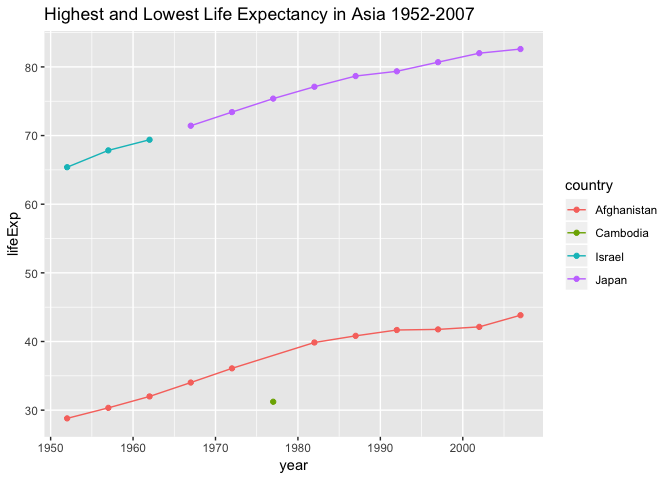
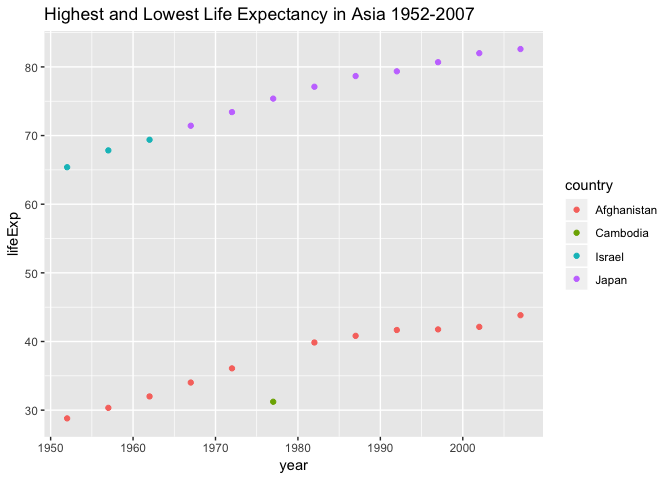
Edited

diff --git a/hw04_cou.md b/hw04_cou.md
@@ -3,6 +3,23 @@ hw04\_couBC
 CouBC
 2018-10-07
 
+-   [Task 1 - Data Re-Shaping](#task-1---data-re-shaping)
+    -   [I use the same specified tibble](#i-use-the-same-specified-tibble)
+    -   [This plot shows the highest and lowest life expectancy Asian countries between 1952-2007](#this-plot-shows-the-highest-and-lowest-life-expectancy-asian-countries-between-1952-2007)
+-   [Task 2:](#task-2)
+    -   [left\_join(places\_visited, airports)](#left_joinplaces_visited-airports)
+    -   [left\_join(airports, places\_visited)](#left_joinairports-places_visited)
+    -   [right\_join(places\_visited, airports)](#right_joinplaces_visited-airports)
+    -   [right\_join(airports, places\_visited)](#right_joinairports-places_visited)
+    -   [inner\_join(places\_visited, airports)](#inner_joinplaces_visited-airports)
+    -   [inner\_join(airports, places\_visited)](#inner_joinairports-places_visited)
+    -   [semi\_join(places\_visited, airports)](#semi_joinplaces_visited-airports)
+    -   [semi\_join(airports, places\_visited)](#semi_joinairports-places_visited)
+    -   [full\_join(places\_visited, airports)](#full_joinplaces_visited-airports)
+    -   [full\_join(airports, places\_visited)](#full_joinairports-places_visited)
+    -   [anti\_join(places\_visited, airports)](#anti_joinplaces_visited-airports)
+    -   [anti\_join(airports, places\_visited)](#anti_joinairports-places_visited)
+
 Task 1 - Data Re-Shaping
 ========================
 
@@ -89,7 +106,6 @@ This plot shows the highest and lowest life expectancy Asian countries between 1
 Asia_lifeExp %>% 
   ggplot(aes(x = year, y = lifeExp, color = country)) +
   geom_point() +
-  geom_line() +
   ggtitle("Highest and Lowest Life Expectancy in Asia 1952-2007")
 ```
 
@@ -159,15 +175,11 @@ left\_join(places\_visited, airports)
 With left join places\_visited then airports, I am missing Schiphol airport (Netherlands) from the airports table. This left\_join is matched by 'country'.
 
 ``` r
-lj_pa <- left_join(places_visited, airports) %>% 
+left_join(places_visited, airports) %>% 
   knitr::kable()
 ```
 
     ## Joining, by = "country"
-
-``` r
-lj_pa
-```
 
 | city        | country              | beach | airports          |  airport\_quality|
 |:------------|:---------------------|:------|:------------------|-----------------:|
@@ -184,15 +196,11 @@ left\_join(airports, places\_visited)
 With left\_join airport first, I retain Schiphol Airport (Netherlands) but lose Merida, Mexico as a place visited. Interpretation wise, this is an accurate depiction of my travel history as I've been to Schiphol airport but never been to Amsterdam.
 
 ``` r
-lj_ap <- left_join(airports, places_visited) %>% 
+left_join(airports, places_visited) %>% 
 knitr::kable()
 ```
 
     ## Joining, by = "country"
-
-``` r
-lj_ap
-```
 
 | airports          | country              |  airport\_quality| city        | beach |
 |:------------------|:---------------------|-----------------:|:------------|:------|
@@ -209,15 +217,11 @@ right\_join(places\_visited, airports)
 Similar to left\_join, I lose a bit of information. In Right\_join(places\_visited, airports) I lose out on visiting Merida, Mexico because I did not fly there.
 
 ``` r
-rj_pa <- right_join(places_visited, airports) %>% 
+right_join(places_visited, airports) %>% 
 knitr::kable()
 ```
 
     ## Joining, by = "country"
-
-``` r
-rj_pa
-```
 
 | city        | country              | beach | airports          |  airport\_quality|
 |:------------|:---------------------|:------|:------------------|-----------------:|
@@ -231,19 +235,14 @@ rj_pa
 right\_join(airports, places\_visited)
 --------------------------------------
 
-Here it depicts that I've been to Merida, Mexico but gives no quality of rating of airport.
+Here it depicts that I've been to Merida, Mexico but gives no quality of rating of airport. Right\_join(airports, places\_visited) is identical to left\_join(places\_visited, airports)
 
 ``` r
-rj_ap <- 
-  right_join(airports, places_visited)  %>% 
-knitr::kable()
+right_join(airports, places_visited)  %>% 
+  knitr::kable()
 ```
 
     ## Joining, by = "country"
-
-``` r
-rj_ap
-```
 
 | airports          | country              |  airport\_quality| city        | beach |
 |:------------------|:---------------------|-----------------:|:------------|:------|
@@ -260,15 +259,11 @@ inner\_join(places\_visited, airports)
 Inner\_join retains only rows in both sets. Here I miss out on Merida and Schiphol Airport
 
 ``` r
-ij_pa <- inner_join(places_visited, airports) %>% 
+inner_join(places_visited, airports) %>% 
 knitr::kable()
 ```
 
     ## Joining, by = "country"
-
-``` r
-ij_pa
-```
 
 | city        | country              | beach | airports          |  airport\_quality|
 |:------------|:---------------------|:------|:------------------|-----------------:|
@@ -284,15 +279,11 @@ inner\_join(airports, places\_visited)
 Similarly, I miss out on Merida and Schiphol Airport
 
 ``` r
-ij_ap <- inner_join(airports, places_visited) %>% 
+inner_join(airports, places_visited) %>% 
 knitr::kable()
 ```
 
     ## Joining, by = "country"
-
-``` r
-ij_ap
-```
 
 | airports          | country              |  airport\_quality| city        | beach |
 |:------------------|:---------------------|-----------------:|:------------|:------|
@@ -308,15 +299,11 @@ semi\_join(places\_visited, airports)
 in semi-join - only rows that have a match in places\_visited and airports are retained, losing columns re: airport and airport quality
 
 ``` r
-sj_pa <- semi_join(places_visited, airports) %>% 
+semi_join(places_visited, airports) %>% 
 knitr::kable()
 ```
 
     ## Joining, by = "country"
-
-``` r
-sj_pa
-```
 
 | city        | country              | beach |
 |:------------|:---------------------|:------|
@@ -332,15 +319,11 @@ semi\_join(airports, places\_visited)
 Here I lose out on city and beach columns.
 
 ``` r
-sj_ap <- semi_join(airports, places_visited) %>% 
-knitr::kable()
+semi_join(airports, places_visited) %>% 
+  knitr::kable()
 ```
 
     ## Joining, by = "country"
-
-``` r
-sj_ap
-```
 
 | airports          | country              |  airport\_quality|
 |:------------------|:---------------------|-----------------:|
@@ -356,16 +339,11 @@ full\_join(places\_visited, airports)
 full\_join lets me retain the data from all rows and all values
 
 ``` r
-fj_pa <- 
 full_join(places_visited, airports) %>% 
 knitr::kable()
 ```
 
     ## Joining, by = "country"
-
-``` r
-fj_pa
-```
 
 | city        | country              | beach | airports          |  airport\_quality|
 |:------------|:---------------------|:------|:------------------|-----------------:|
@@ -383,16 +361,11 @@ full\_join(airports, places\_visited)
 similar to previous full-join with airport table data displayed first, retains all available rows and values
 
 ``` r
-fj_ap <- 
-  full_join(airports, places_visited) %>% 
-knitr::kable()
+full_join(airports, places_visited) %>% 
+  knitr::kable()
 ```
 
     ## Joining, by = "country"
-
-``` r
-fj_ap
-```
 
 | airports          | country              |  airport\_quality| city        | beach |
 |:------------------|:---------------------|-----------------:|:------------|:------|
@@ -410,16 +383,11 @@ anti\_join(places\_visited, airports)
 Anti\_join only retains the rows that do not have a match in airports, in which case, this is Merida. I hypothesize that anti\_join with airports first will produce Schiphol
 
 ``` r
-aj_pa <-
 anti_join(places_visited, airports) %>% 
-knitr::kable()
+  knitr::kable()
 ```
 
     ## Joining, by = "country"
-
-``` r
-aj_pa
-```
 
 | city   | country | beach |
 |:-------|:--------|:------|
@@ -431,18 +399,12 @@ anti\_join(airports, places\_visited)
 anti\_join can be useful to identify/extricate non-matching rows between tables
 
 ``` r
-aj_ap <- anti_join(airports, places_visited) %>% 
-knitr::kable()
+anti_join(airports, places_visited) %>% 
+  knitr::kable()
 ```
 
     ## Joining, by = "country"
 
-``` r
-aj_ap 
-```
-
 | airports | country     |  airport\_quality|
 |:---------|:------------|-----------------:|
 | Schiphol | Netherlands |                 5|
-
-?Add interesect, union, setdiff?
